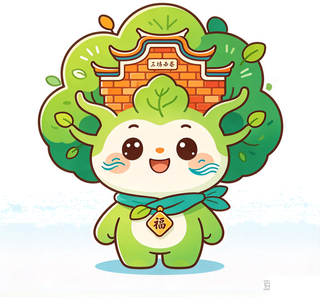
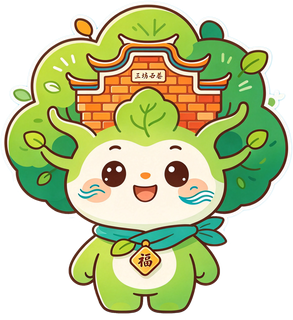
feat: 悬浮助手吉祥物替换为绿色古厝吉祥物（透明背景）

diff --git a/js/12-ai-helper.js b/js/12-ai-helper.js
@@ -207,7 +207,7 @@
     ball.id = 'aiBall';
     ball.className = 'ai-ball';
     ball.setAttribute('aria-label', '古厝文史问答 / Ancient House Q&A');
-    ball.innerHTML = '<img class="ai-ball-img" src="images/ai-mascot.png" alt="" draggable="false" aria-hidden="true" />';
+    ball.innerHTML = '<img class="ai-ball-img" src="images/ai-mascot.png?v=2" alt="" draggable="false" aria-hidden="true" />';
     ball.addEventListener('click', function (e) {
       e.preventDefault();
       e.stopPropagation();

diff --git a/index.html b/index.html
@@ -1277,7 +1277,7 @@
       window.FZYJ_AI_API = ''; // 公网静态站未部署后端时只走离线样例
     })();
   </script>
-  <script src="js/12-ai-helper.js?v=12"></script>
+  <script src="js/12-ai-helper.js?v=13"></script>
   <!-- 首页横幅轮播：自动切换 + 手势拖动 + 指示点 -->
   <script>
     (function () {
